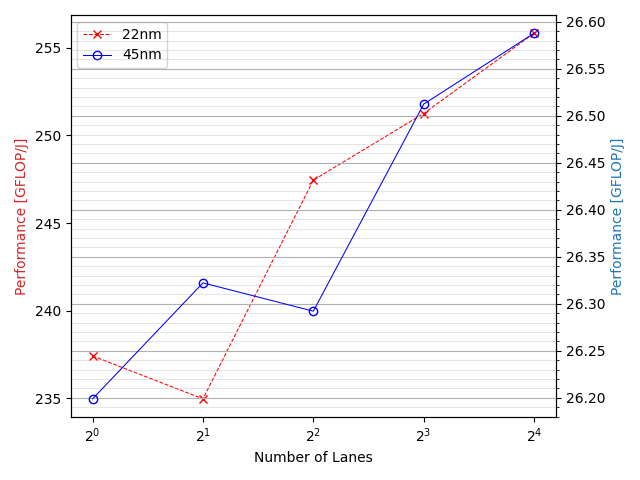
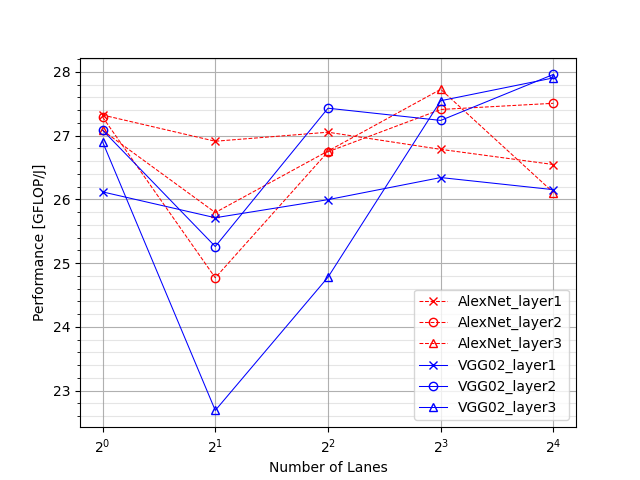
first update of graphs

Changed region(s): [[0.0, 0.0312, 0.9688, 1.0]]

diff --git a/src/graphs.py b/src/graphs.py
@@ -23,58 +23,45 @@ def results_parser(path='src/output/timeloop-mapper.stats.txt'):
         tot_util = float(re.findall("[0-9]+\.[0-9]+", tot_util)[0])
     return tot_energy, tot_cycles, tot_area, tot_util
 
-tech_node_list = [22, 45]
+problem_list = ["AlexNet_layer1", "AlexNet_layer2","AlexNet_layer3", "VGG02_layer1", "VGG02_layer2", "VGG02_layer3"]
 num_lanes_list = [1,2,4,8,16]
 
-tot_energy = {tech:[None]*len(num_lanes_list) for tech in tech_node_list}
-tot_cycles = {tech:[None]*len(num_lanes_list) for tech in tech_node_list}
-tot_area = {tech:[None]*len(num_lanes_list) for tech in tech_node_list} 
-tot_util = {tech:[None]*len(num_lanes_list) for tech in tech_node_list}
-tot_perf = {tech:[None]*len(num_lanes_list) for tech in tech_node_list}
+tot_energy = {prob:[None]*len(num_lanes_list) for prob in problem_list}
+tot_cycles = {prob:[None]*len(num_lanes_list) for prob in problem_list}
+tot_area = {prob:[None]*len(num_lanes_list) for prob in problem_list} 
+tot_util = {prob:[None]*len(num_lanes_list) for prob in problem_list}
+tot_perf = {prob:[None]*len(num_lanes_list) for prob in problem_list}
 
 
-for tech in tech_node_list:
+for prob in problem_list:
     for i, num_lanes in enumerate(num_lanes_list):
-        path = f"src/output_{tech}nm/{num_lanes}_lanes/timeloop-mapper.stats.txt"
+        path = f"src/output_45nm/{prob}/{num_lanes}_lanes/timeloop-mapper.stats.txt"
         energy, cycles, area, util = results_parser(path)
-        tot_energy[tech][i] = energy # uJ
-        tot_cycles[tech][i] = cycles
-        tot_area[tech][i] = area
-        tot_util[tech][i] = util
-        tot_perf[tech][i] = util*cycles*num_lanes/(energy*10**3) # Conversion to GFLOP/J (*10^6/10^9 => 1/10^3)
+        tot_energy[prob][i] = energy # uJ
+        tot_cycles[prob][i] = cycles
+        tot_area[prob][i] = area
+        tot_util[prob][i] = util
+        tot_perf[prob][i] = util*cycles*num_lanes/(energy*10**3) # Conversion to GFLOP/J (*10^6/10^9 => 1/10^3)
 
+style_list = ["rx--", "ro--", "r^--", "bx-", "bo-", "b^-"]
 
-
-# Energy 
-fig, ax1 = plt.subplots()
-
-color = 'tab:red'
+# Energy
+for i, prob in enumerate(problem_list):
+    plt.plot(num_lanes_list, tot_energy[prob], style_list[i], linewidth=0.75, fillstyle='none')
+plt.legend(problem_list)
+plt.ylabel('Energy')
+plt.xlabel('Number of Lanes')
 plt.xscale('log',basex=2)
-ax1.set_xlabel('Number of Lanes')
-ax1.set_ylabel('Energy [uJ]', color=color)
-lns1 = ax1.plot(num_lanes_list, tot_energy[22], 'rx--', linewidth=0.75, fillstyle='none', label='22nm')
-
-ax2 = ax1.twinx()  # instantiate a second axes that shares the same x-axis
-color = 'tab:blue'
-ax2.set_ylabel('Energy [uJ]', color=color)  # we already handled the x-label with ax1
-lns2 = ax2.plot(num_lanes_list, tot_energy[45], 'bo-', linewidth=0.75, fillstyle='none', label='45nm')
-
 plt.grid()
 plt.minorticks_on()
 plt.grid(visible=True, which='minor', color='#999999', linestyle='-', alpha=0.25)
-
-lns = lns1+lns2
-labs = [l.get_label() for l in lns]
-ax1.legend(lns, labs, loc='best')
-
-fig.tight_layout()  # otherwise the right y-label is slightly clipped
 plt.savefig('tex_intermediate/fig/energy.png')
 plt.close()
 
 # Cycles
-plt.plot(num_lanes_list, tot_cycles[22], 'rx--', linewidth=0.75, fillstyle='none')
-plt.plot(num_lanes_list, tot_cycles[45], 'bo-', linewidth=0.75, fillstyle='none')
-plt.legend(['22nm', '45nm'])
+for i, prob in enumerate(problem_list):
+    plt.plot(num_lanes_list, tot_cycles[prob], style_list[i], linewidth=0.75, fillstyle='none')
+plt.legend(problem_list)
 plt.ylabel('Cycles')
 plt.xlabel('Number of Lanes')
 plt.xscale('log',basex=2)
@@ -85,39 +72,23 @@ plt.grid(visible=True, which='minor', color='#999999', linestyle='-', alpha=0.25
 plt.savefig('tex_intermediate/fig/cycles.png')
 plt.close()
 
-
 # Area
-fig, ax1 = plt.subplots()
-
-color = 'tab:red'
+for i, prob in enumerate(problem_list):
+    plt.plot(num_lanes_list, tot_area[prob], style_list[i], linewidth=0.75, fillstyle='none')
+plt.legend(problem_list)
+plt.ylabel('Area')
+plt.xlabel('Number of Lanes')
 plt.xscale('log',basex=2)
-ax1.set_xlabel('Number of Lanes')
-ax1.set_ylabel('Area [mm^2]', color=color)
-lns1 = ax1.plot(num_lanes_list, tot_area[22], 'rx--', linewidth=0.75, fillstyle='none', label='22nm')
-
-ax2 = ax1.twinx()  # instantiate a second axes that shares the same x-axis
-color = 'tab:blue'
-ax2.set_ylabel('Area [mm^2]', color=color)  # we already handled the x-label with ax1
-lns2 = ax2.plot(num_lanes_list, tot_area[45], 'bo-', linewidth=0.75, fillstyle='none', label='45nm')
-
 plt.grid()
 plt.minorticks_on()
 plt.grid(visible=True, which='minor', color='#999999', linestyle='-', alpha=0.25)
-
-lns = lns1+lns2
-labs = [l.get_label() for l in lns]
-ax1.legend(lns, labs, loc='upper left')
-
-fig.tight_layout()  # otherwise the right y-label is slightly clipped
 plt.savefig('tex_intermediate/fig/area.png')
 plt.close()
 
 # Utilization
-plt.plot(num_lanes_list, tot_util[22], 'rx--', linewidth=0.75, fillstyle='none')
-plt.plot(num_lanes_list, tot_util[45], 'bo-', linewidth=0.75, fillstyle='none')
-ax = plt.gca()
-ax.set_ylim([0, 1.1])
-plt.legend(['22nm', '45nm'])
+for i, prob in enumerate(problem_list):
+    plt.plot(num_lanes_list, tot_util[prob], style_list[i], linewidth=0.75, fillstyle='none')
+plt.legend(problem_list)
 plt.ylabel('Utilization %')
 plt.xlabel('Number of Lanes')
 plt.xscale('log',basex=2)
@@ -127,29 +98,15 @@ plt.grid(visible=True, which='minor', color='#999999', linestyle='-', alpha=0.25
 plt.savefig('tex_intermediate/fig/utilization.png')
 plt.close()
 
-
 # Performance
-fig, ax1 = plt.subplots()
-
-color = 'tab:red'
+for i, prob in enumerate(problem_list):
+    plt.plot(num_lanes_list, tot_perf[prob], style_list[i], linewidth=0.75, fillstyle='none')
+plt.legend(problem_list)
+plt.ylabel('Performance [GFLOP/J]')
+plt.xlabel('Number of Lanes')
 plt.xscale('log',basex=2)
-ax1.set_xlabel('Number of Lanes')
-ax1.set_ylabel('Performance [GFLOP/J]', color=color)
-lns1 = ax1.plot(num_lanes_list, tot_perf[22], 'rx--', linewidth=0.75, fillstyle='none', label='22nm')
-
-ax2 = ax1.twinx()  # instantiate a second axes that shares the same x-axis
-color = 'tab:blue'
-ax2.set_ylabel('Performance [GFLOP/J]', color=color)  # we already handled the x-label with ax1
-lns2 = ax2.plot(num_lanes_list, tot_perf[45], 'bo-', linewidth=0.75, fillstyle='none', label='45nm')
-
 plt.grid()
 plt.minorticks_on()
 plt.grid(visible=True, which='minor', color='#999999', linestyle='-', alpha=0.25)
-
-lns = lns1+lns2
-labs = [l.get_label() for l in lns]
-ax1.legend(lns, labs, loc='upper left')
-
-fig.tight_layout()  # otherwise the right y-label is slightly clipped
 plt.savefig('tex_intermediate/fig/performance.png')
 plt.close()
